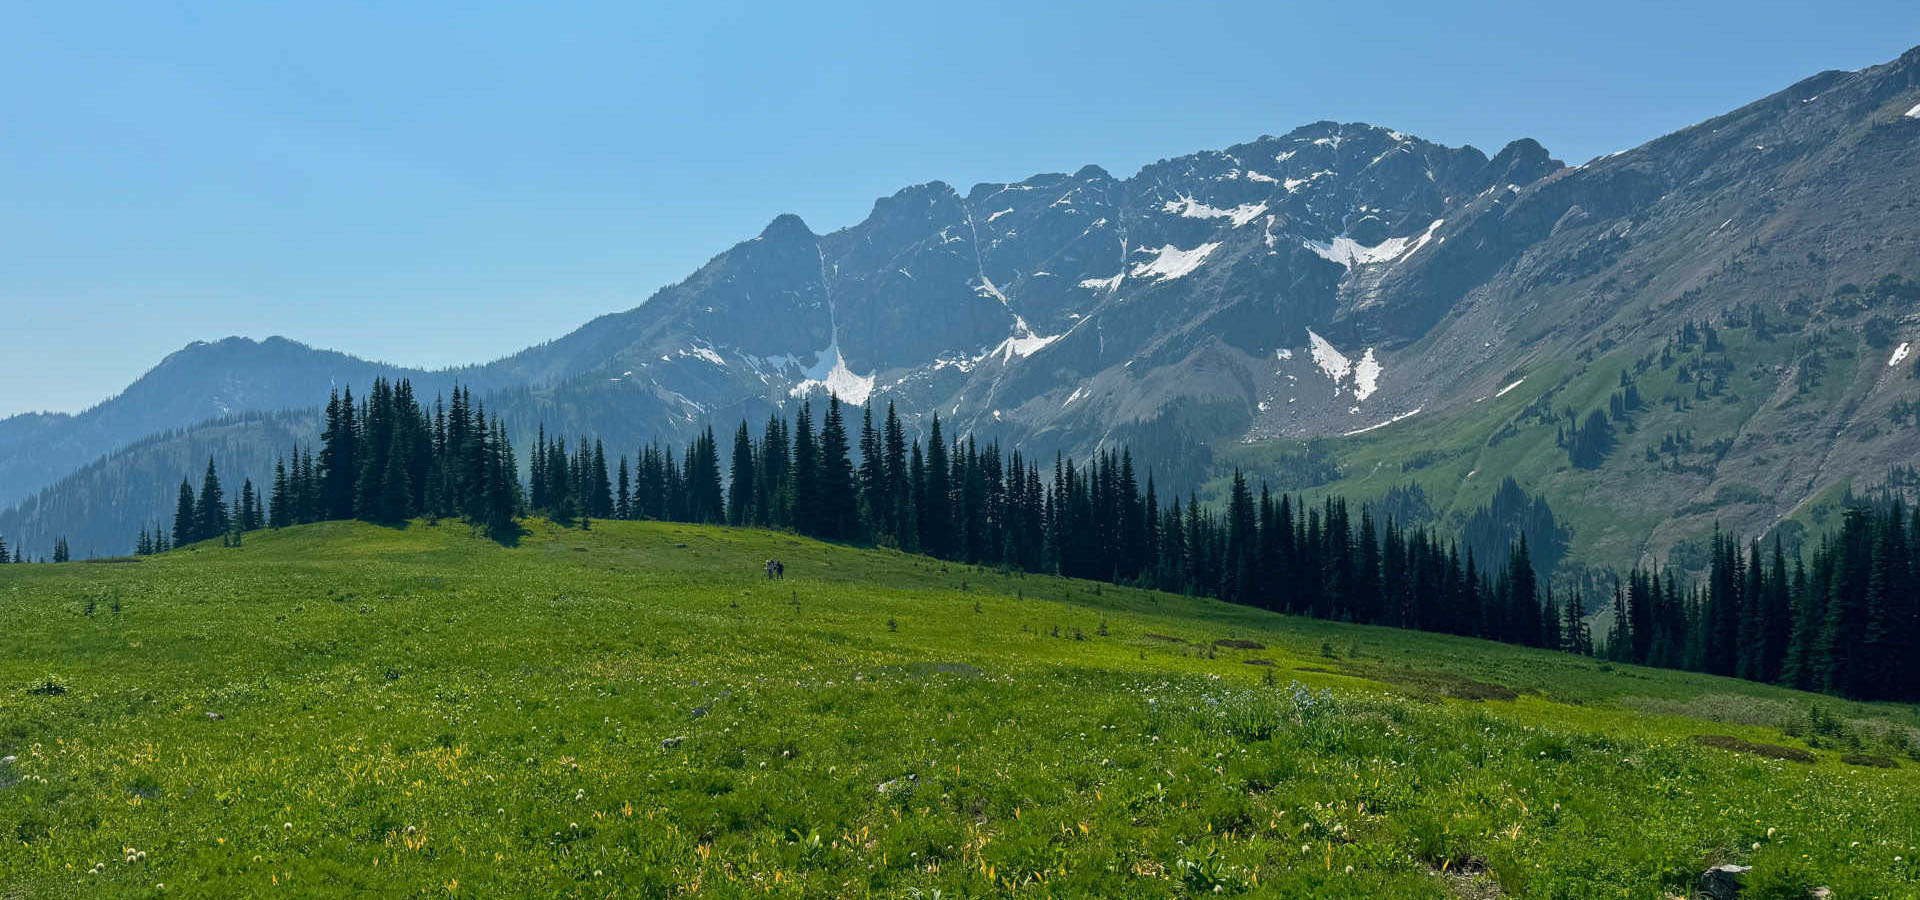
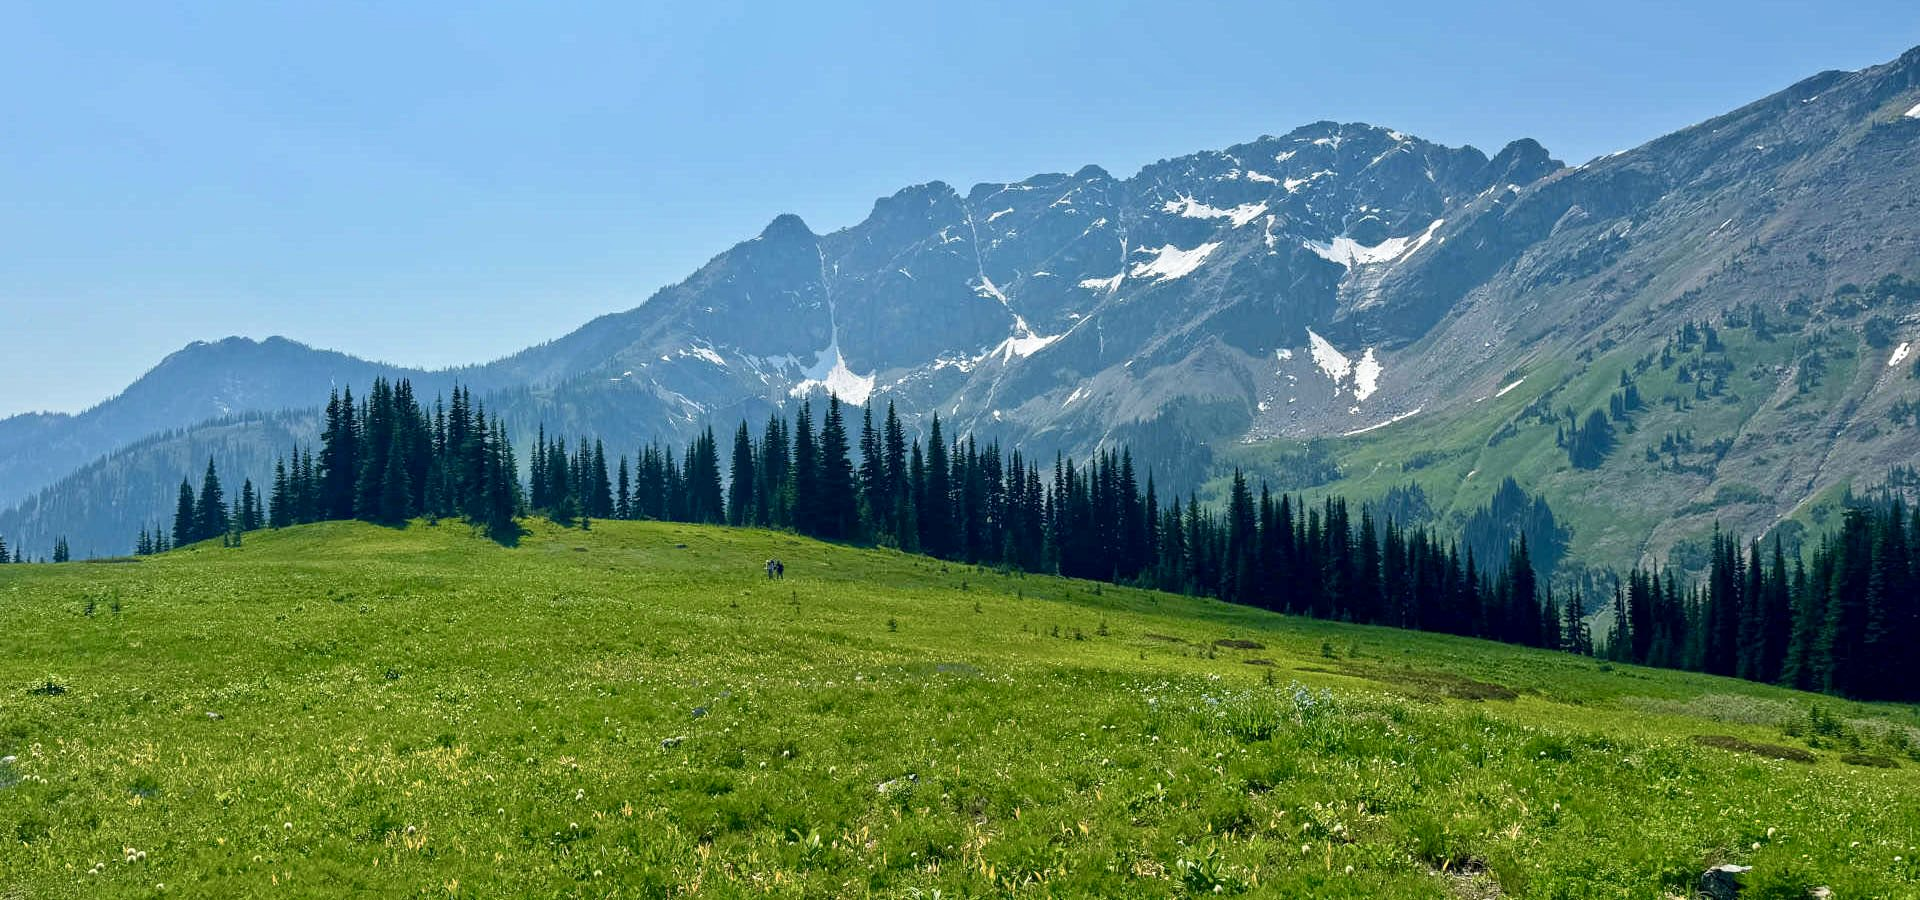
styling, copy beginnings, and updated hero.jpg to get more pop in the blues and greens. and updated biopic assets

Changed region(s): [[0.0, 0.0933, 1.0, 1.0]]

diff --git a/app/blog/page.tsx b/app/blog/page.tsx
@@ -9,10 +9,10 @@ export default function About() {
 
       <main className="bg-gray-50 py-16 px-8">
         <section className="max-w-5xl mx-auto text-center bg-white shadow-lg rounded-lg p-8">
-          <h2 className="text-3xl font-bold mb-4">What is BaseWeight?</h2>
+          <h2 className="text-3xl font-bold mb-4">How Do I?</h2>
           <div className="flex flex-wrap justify-center gap-8">
           <p>
-          In hiking, your BaseWeight is the weight of everything that you're carrying on your back minus the consumables such as food, water and fuel. The idea for ultralight backpacking is that the less weight that you carry on your back, the further you are able to go.  To carry that analogy in software, the idea of baseweight is similar to having as few depeendencies as possible for the maximum distribution.  In short, software that has a small footprint should be able to run everywhere, and as such be more sustainable.
+          How do I get started with AI? How do I build a chatbot? How do I deploy a machine learning model? These are the questions that we aim to answer at BaseWeight. Our team of experts are here to guide you through the process, providing you with the tools and knowledge you need to succeed in the world of AI.
           </p>
           </div>
         </section>

diff --git a/app/about/page.tsx b/app/about/page.tsx
@@ -88,6 +88,7 @@ export default function About() {
               <h3 className="text-xl font-semibold">Vincent van Haaff</h3>
               <p className="text-gray-700">CTO</p>
               <p className="text-gray-600 mt-2">
+                Vincent makes the complex simple. A technical  eighteen years of commercial experience and full-stack skills
                 Vincent van Haaff is a passionate technical creative with over eighteen years of commercial experience and full-stack skills
                 in the design, development and maintenance of modern, user centered data-driven products and services. Vincent creates engaging experiences
                 for web, mobile, new media, and console and have a strong interest in performance, engagement, clean efficient code, smart systems architecture,
